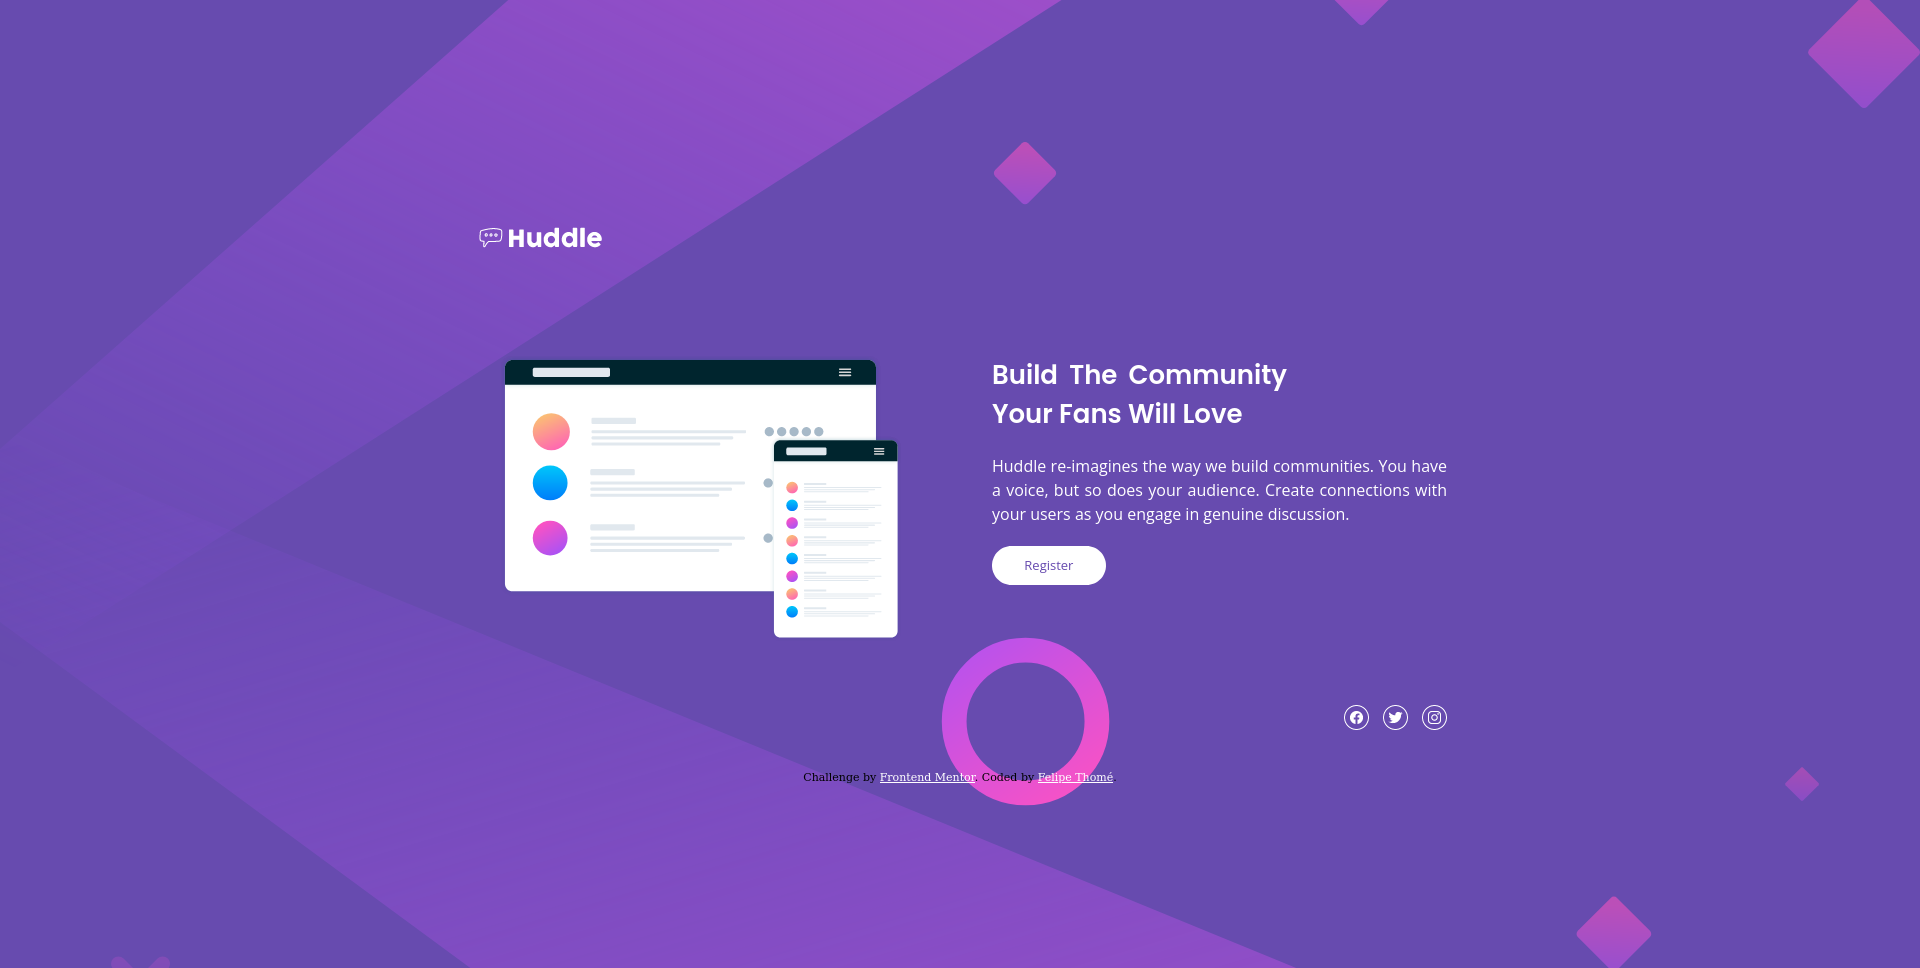
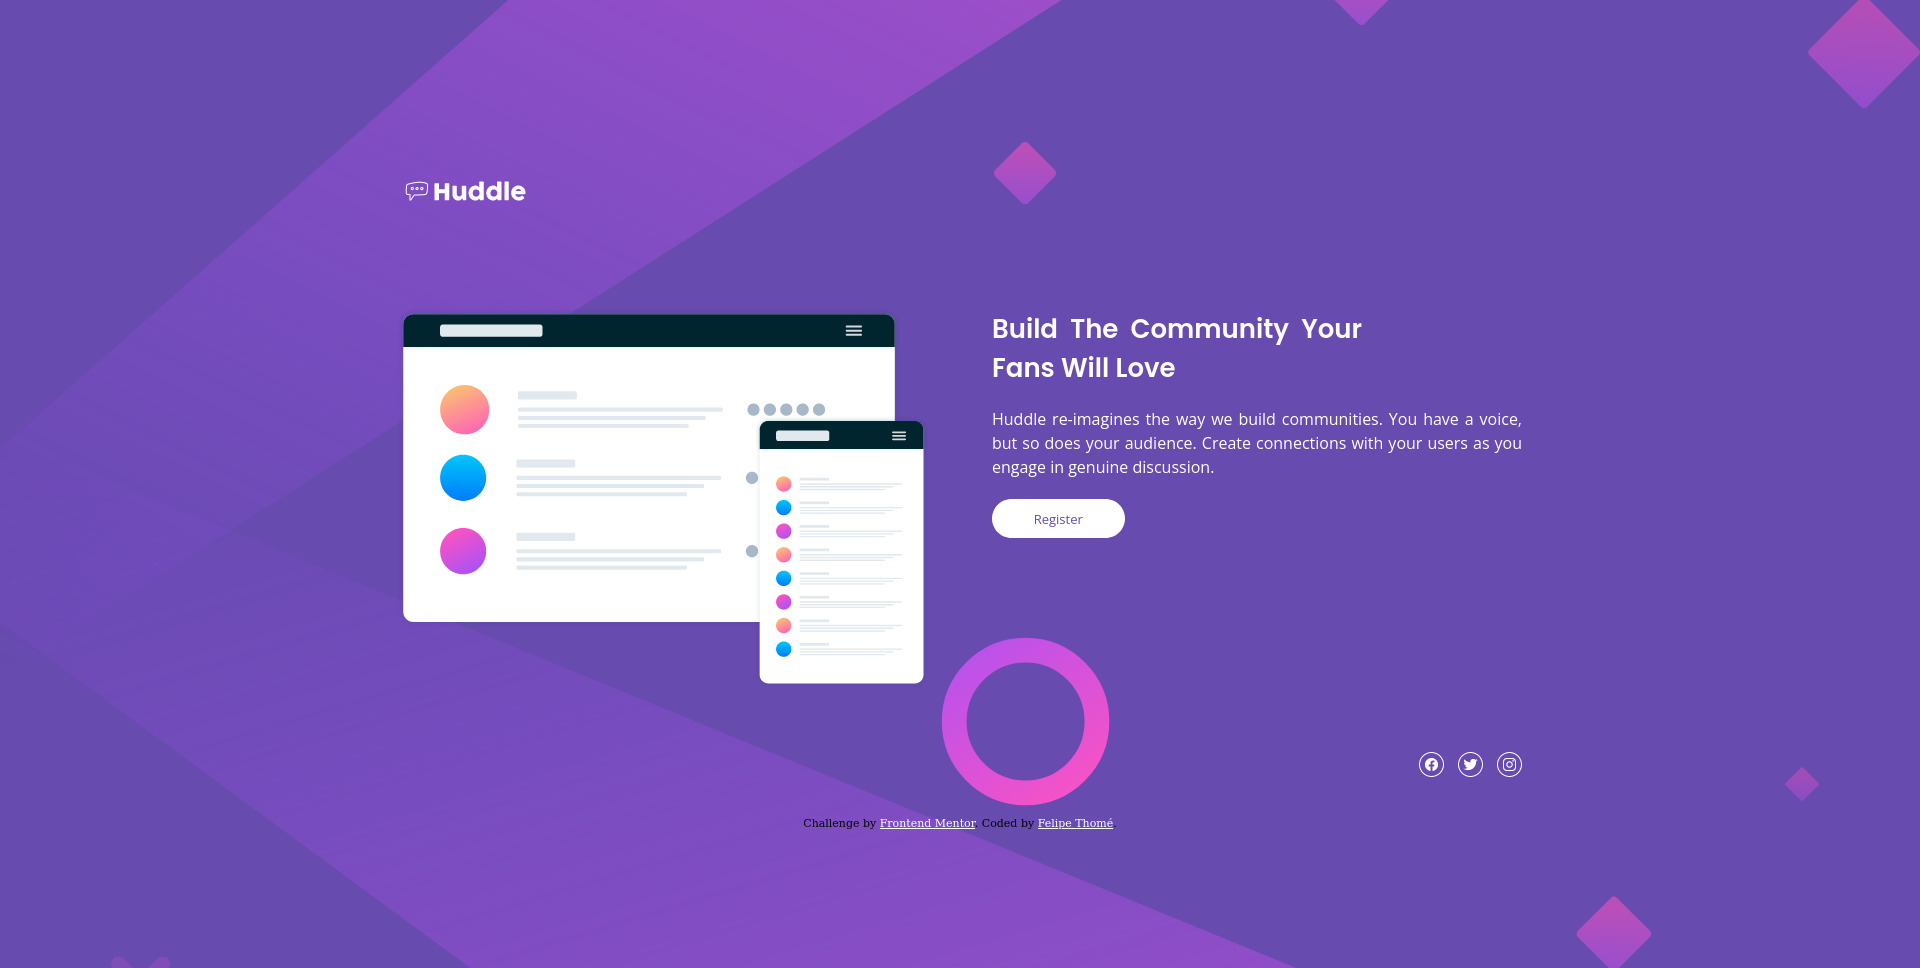
css grid adjustments and readme

diff --git a/styles/style.css b/styles/style.css
@@ -37,7 +37,7 @@
   */
   img, picture, video, canvas, svg {
     display: block;
-    /* max-width: 100%; */
+    max-width: 100%;
   }
   /*
     7. Remove built-in form typography styles
@@ -75,7 +75,10 @@
 
 body {
     background: var(--Violet) url(../images/bg-mobile.svg) left bottom no-repeat;
-    background-size: cover;   
+    background-size: cover;
+    display: flex;
+    flex-direction: column;
+    align-items: center;   
 }
 
 .card {
@@ -95,6 +98,7 @@ body {
     'three'
     'four';
     grid-auto-columns: 1fr;
+    max-width: 550px;
 }
 
 .logo {
@@ -121,7 +125,6 @@ body {
 
 .mockup {
     margin: auto;
-    width: 25rem;
 }
 
 .text {
@@ -189,10 +192,7 @@ ion-icon:hover {
     body {
         background: hsl(257, 40%, 49%) url(../images/bg-desktop.svg) center center no-repeat;
         background-size: cover;
-        display: flex;
-        flex-direction: column;
         justify-content: center;
-        align-items: center;
     }
 
     .card {
@@ -200,7 +200,11 @@ ion-icon:hover {
       'one one'
       'two three'
       'four four';
-      max-width: 1050px;
+      max-width: 1200px;
+    }
+
+    .mockup {
+      max-width: 100%;
     }
 
     .text {

diff --git a/index.html b/index.html
@@ -17,7 +17,7 @@
     
     <img class="logo" src="images/logo.svg" alt="Huddle logo">
 
-    <img class="mockup" src="images/illustration-mockups.svg" alt="">
+    <img class="mockup" src="images/illustration-mockups.svg" alt="" aria-hidden="true">
 
     <div class="text">
       <h1>

diff --git a/README.md b/README.md
@@ -39,63 +39,21 @@ Users should be able to:
 ### Built with
 
 - Semantic HTML5 markup
-- CSS custom properties
 - Flexbox
 - CSS Grid
 - Mobile-first workflow
-- [React](https://reactjs.org/) - JS library
-- [Next.js](https://nextjs.org/) - React framework
-- [Styled Components](https://styled-components.com/) - For styles
-
-**Note: These are just examples. Delete this note and replace the list above with your own choices**
 
 ### What I learned
 
-Use this section to recap over some of your major learnings while working through this project. Writing these out and providing code samples of areas you want to highlight is a great way to reinforce your own knowledge.
-
-To see how you can add code snippets, see below:
-
-```html
-<h1>Some HTML code I'm proud of</h1>
-```
-```css
-.proud-of-this-css {
-  color: papayawhip;
-}
-```
-```js
-const proudOfThisFunc = () => {
-  console.log('🎉')
-}
-```
-
-If you want more help with writing markdown, we'd recommend checking out [The Markdown Guide](https://www.markdownguide.org/) to learn more.
-
-**Note: Delete this note and the content within this section and replace with your own learnings.**
-
-### Continued development
-
-Use this section to outline areas that you want to continue focusing on in future projects. These could be concepts you're still not completely comfortable with or techniques you found useful that you want to refine and perfect.
-
-**Note: Delete this note and the content within this section and replace with your own plans for continued development.**
+Used CSS grid to align the items on the desktop version. Use of grid-template-areas to position the elements.
 
 ### Useful resources
 
-- [Example resource 1](https://www.example.com) - This helped me for XYZ reason. I really liked this pattern and will use it going forward.
-- [Example resource 2](https://www.example.com) - This is an amazing article which helped me finally understand XYZ. I'd recommend it to anyone still learning this concept.
-
-**Note: Delete this note and replace the list above with resources that helped you during the challenge. These could come in handy for anyone viewing your solution or for yourself when you look back on this project in the future.**
+- Kevin Powell video on CSS Grid
 
 ## Author
 
-- Website - [Add your name here](https://www.your-site.com)
+- Website - [Felipe Thomé](https://www.github.com/felipetn1989)
 - Frontend Mentor - [@yourusername](https://www.frontendmentor.io/profile/yourusername)
-- Twitter - [@yourusername](https://www.twitter.com/yourusername)
 
-**Note: Delete this note and add/remove/edit lines above based on what links you'd like to share.**
 
-## Acknowledgments
-
-This is where you can give a hat tip to anyone who helped you out on this project. Perhaps you worked in a team or got some inspiration from someone else's solution. This is the perfect place to give them some credit.
-
-**Note: Delete this note and edit this section's content as necessary. If you completed this challenge by yourself, feel free to delete this section entirely.**
